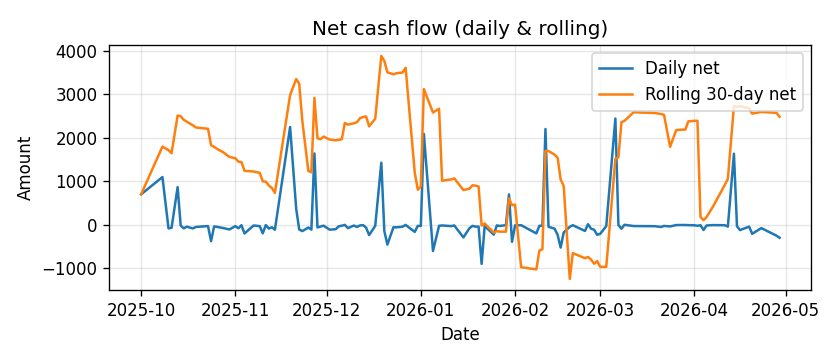
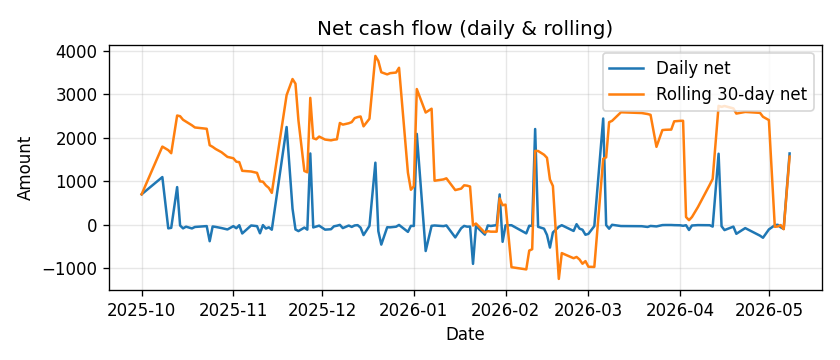
.

diff --git a/templates/pending.html b/templates/pending.html
@@ -6,6 +6,7 @@
   <h2>Add Recurring Payment</h2>
 
   <form method="post" class="transaction-form">
+    <input type="hidden" name="action" value="add">
     <div>
       <label>Name</label>
       <input type="text" name="name" placeholder="Condominio, Parking..." required>

diff --git a/utils/recurring_utils.py b/utils/recurring_utils.py
@@ -1,81 +1,215 @@
 from datetime import date
-import csv, calendar
-from pathlib import Path
+import csv
+import calendar
 from config import DATA_DIR
-from utils.pending_utils import append_pending
+from utils.pending_utils import append_pending, load_pending
 
 RECURRING_CSV = DATA_DIR / "recurring.csv"
 
+RECURRING_FIELDS = [
+    "id",
+    "name",
+    "type",
+    "amount",
+    "frequency",
+    "day_of_month",
+    "category",
+    "start_date",
+    "last_generated",
+]
+
+
+def _ensure_recurring_csv():
+    """Create recurring.csv with the correct header if it does not exist."""
+    if not RECURRING_CSV.exists():
+        with RECURRING_CSV.open("w", newline="", encoding="utf-8") as f:
+            writer = csv.DictWriter(f, fieldnames=RECURRING_FIELDS)
+            writer.writeheader()
+
+
+def _normalize_row(row):
+    """
+    Keep the recurring CSV schema stable even if older rows miss columns.
+    This prevents DictWriter errors and makes old files easier to migrate.
+    """
+    normalized = {field: row.get(field, "") for field in RECURRING_FIELDS}
+
+    if not normalized["frequency"]:
+        normalized["frequency"] = "monthly"
+
+    return normalized
+
+
+def _write_recurring(rows):
+    _ensure_recurring_csv()
+    with RECURRING_CSV.open("w", newline="", encoding="utf-8") as f:
+        writer = csv.DictWriter(f, fieldnames=RECURRING_FIELDS)
+        writer.writeheader()
+        writer.writerows([_normalize_row(r) for r in rows])
+
+
+def _parse_date(value):
+    if not value:
+        return None
+    try:
+        return date.fromisoformat(str(value))
+    except ValueError:
+        return None
+
 
 def get_valid_date(year, month, desired_day):
+    """Return the real calendar day for this month, clamping 29/30/31 safely."""
     last_day = calendar.monthrange(year, month)[1]
+    desired_day = max(1, min(int(desired_day), 31))
     return min(desired_day, last_day)
 
+
 def load_recurring():
-    if not RECURRING_CSV.exists():
-        return []
+    _ensure_recurring_csv()
     with RECURRING_CSV.open(newline="", encoding="utf-8") as f:
-        return list(csv.DictReader(f))
+        return [_normalize_row(row) for row in csv.DictReader(f)]
 
 
-def generate_recurring():
-    today = date.today()
-    rules = load_recurring()
+def _already_generated_this_month(row, today):
+    """
+    A monthly recurring rule can only generate once for each year/month.
+    This is the key check that prevents duplicates when the page is refreshed.
+    """
+    last_generated = _parse_date(row.get("last_generated"))
+    if not last_generated:
+        return False
 
-    for r in rules:
-        desired_day = int(r["day_of_month"])
+    return last_generated.year == today.year and last_generated.month == today.month
+
+
+def _matching_pending_exists(row, due_date):
+    """
+    Safety net for rows created before last_generated existed/was updated.
+    If a matching pending/executed item already exists for this same month,
+    do not create another one.
+    """
+    due = due_date.isoformat()
+    name = str(row.get("name", ""))
+    r_type = str(row.get("type", ""))
+    category = str(row.get("category", ""))
+
+    try:
+        amount = float(row.get("amount", 0))
+    except (TypeError, ValueError):
+        amount = 0.0
+
+    for tx in load_pending():
+        if tx.get("date_due") != due:
+            continue
+        if tx.get("description") != name:
+            continue
+        if tx.get("type") != r_type:
+            continue
+        if tx.get("category") != category:
+            continue
+
+        try:
+            tx_amount = float(tx.get("amount", 0))
+        except (TypeError, ValueError):
+            tx_amount = 0.0
+
+        if abs(tx_amount - amount) < 0.01:
+            return True
+
+    return False
+
+
+def generate_recurring(today=None):
+    """
+    Generate due monthly recurring payments exactly once per month.
+
+    Important behavior:
+    - Uses last_generated to remember the month that has already run.
+    - Checks the actual due date, not only the day number.
+    - Does not backfill the current month if the rule was created after this
+      month's due date.
+    - Returns the number of new pending rows created.
+    """
+    today = today or date.today()
+    rows = load_recurring()
+
+    changed = False
+    created = 0
+
+    for row in rows:
+        if row.get("frequency", "monthly") != "monthly":
+            continue
+
+        try:
+            desired_day = int(row.get("day_of_month", 1))
+        except (TypeError, ValueError):
+            desired_day = 1
 
         valid_day = get_valid_date(today.year, today.month, desired_day)
+        due_date = date(today.year, today.month, valid_day)
 
-        if today.day == valid_day:
-            append_pending({
-                "type": r["type"],
-                "amount": float(r["amount"]),
-                "category": r["category"],
+        # Do not generate before the due date.
+        if today < due_date:
+            continue
+
+        # Do not generate for a month that was already processed.
+        if _already_generated_this_month(row, today):
+            continue
+
+        # If the rule was created after this month's due date, do not create
+        # a retroactive payment. It will start from next month.
+        start_date = _parse_date(row.get("start_date"))
+        if start_date and due_date < start_date:
+            continue
+
+        # Extra protection for older data where last_generated may still be blank.
+        if _matching_pending_exists(row, due_date):
+            row["last_generated"] = due_date.isoformat()
+            changed = True
+            continue
+
+        append_pending(
+            {
+                "type": row["type"],
+                "amount": float(row["amount"]),
+                "category": row["category"],
                 "account": "auto",
-                "description": r["name"],
-            }, today)
+                "description": row["name"],
+            },
+            due_date,
+        )
+
+        row["last_generated"] = due_date.isoformat()
+        changed = True
+        created += 1
+
+    if changed:
+        _write_recurring(rows)
+
+    return created
 
 
 def append_recurring(rule):
-    path = RECURRING_CSV
-
-    fieldnames = [
-        "id", "name", "type", "amount", "category",
-        "frequency", "day_of_month", "start_date", "last_generated"
-    ]
-
     rows = load_recurring()
-    new_id = max([int(r["id"]) for r in rows], default=0) + 1
+    new_id = max([int(r["id"]) for r in rows if str(r.get("id", "")).isdigit()], default=0) + 1
 
     row = {
-        "id": new_id,
+        "id": str(new_id),
         "name": rule["name"],
         "type": rule["type"],
-        "category": rule["category"],
         "amount": str(rule["amount"]),
         "frequency": "monthly",
         "day_of_month": str(rule["day_of_month"]),
-        "start_date": "",
+        "category": rule["category"],
+        "start_date": date.today().isoformat(),
         "last_generated": "",
     }
 
-    with path.open("a", newline="", encoding="utf-8") as f:
-        writer = csv.DictWriter(f, fieldnames=fieldnames)
-
-        if path.stat().st_size == 0:
-            writer.writeheader()
-
-        writer.writerow(row)
+    rows.append(row)
+    _write_recurring(rows)
 
 
 def delete_recurring(rule_id):
     rows = load_recurring()
     rows = [r for r in rows if int(r["id"]) != rule_id]
-
-    if rows:
-        with RECURRING_CSV.open("w", newline="", encoding="utf-8") as f:
-            writer = csv.DictWriter(f, fieldnames=rows[0].keys())
-            writer.writeheader()
-            writer.writerows(rows)
-
+    _write_recurring(rows)

diff --git a/app_complete.py b/app_complete.py
@@ -59,8 +59,8 @@ app = Flask(__name__)
 
 @app.route("/")
 def index():
-    process_pending()
     generate_recurring()
+    process_pending()
     df = load_all()
 
     today = pd.Timestamp.today()
@@ -463,6 +463,8 @@ def pending_page():
 
         elif action == "delete":
             delete_recurring(int(request.form.get("id")))
+
+        return redirect(url_for("pending_page"))
 
     pending = load_pending()
     recurring = load_recurring()